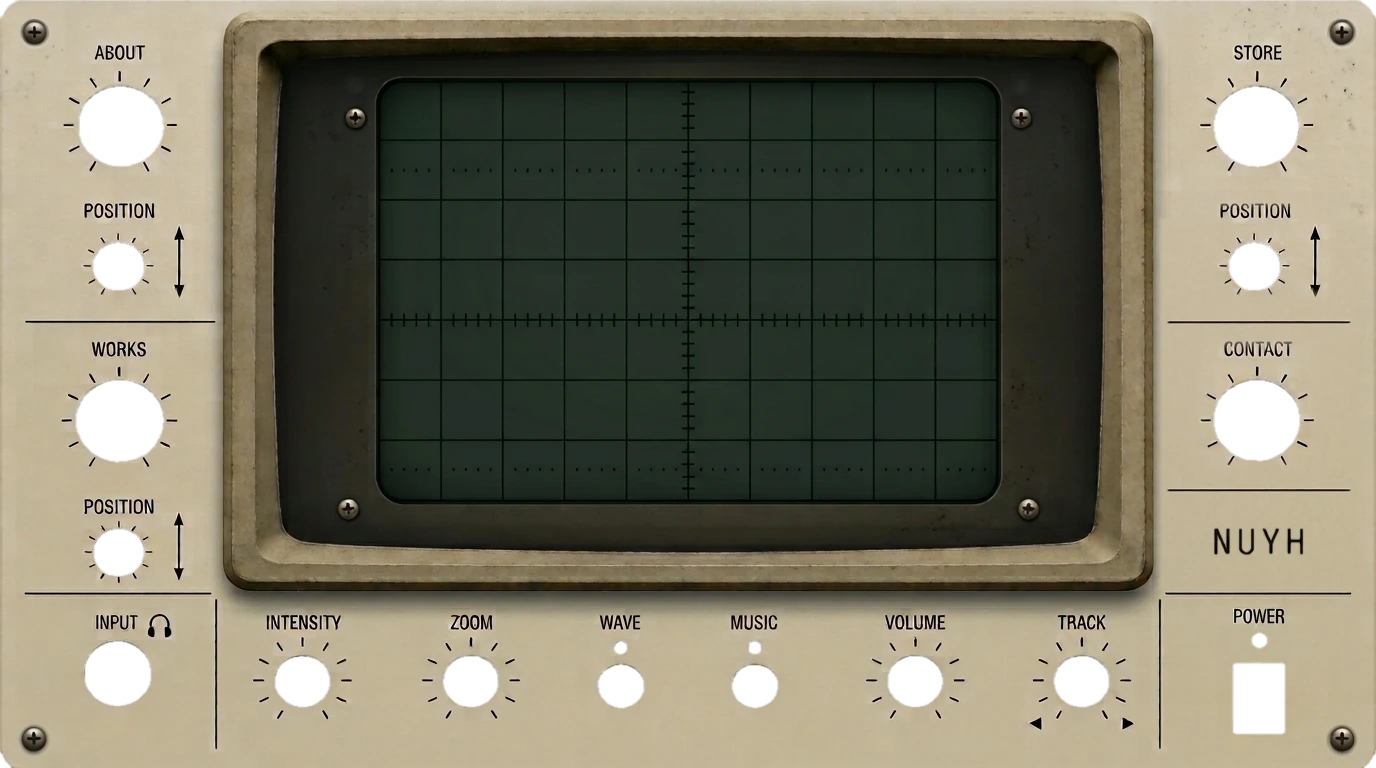
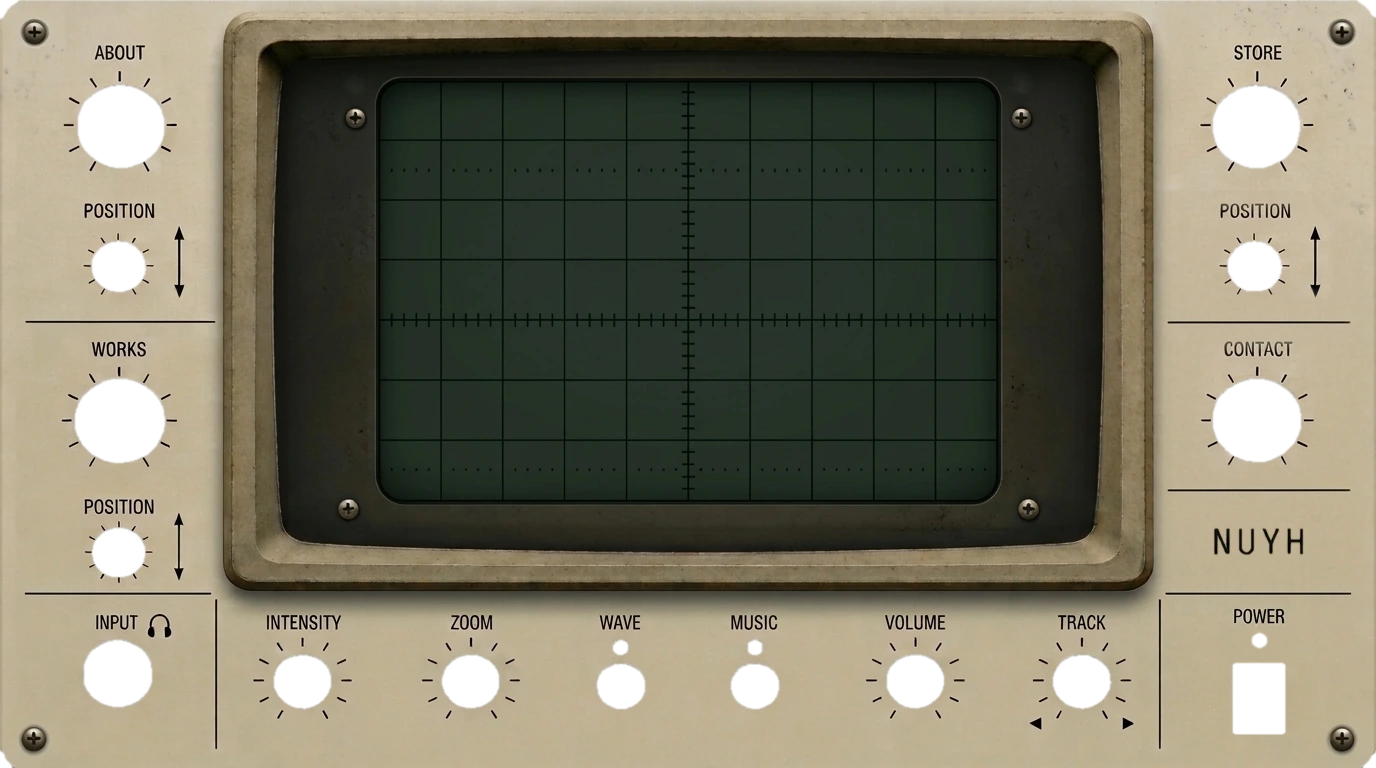
Add files via upload

diff --git a/index.html b/index.html
@@ -16,14 +16,19 @@ a{color:inherit;text-underline-offset:.2em}
 .w>img{position:relative;z-index:2;display:block;width:100%;height:100%;pointer-events:none}
 .w>:not(img){position:absolute}
 /* knobs */
-.k{z-index:3;border-radius:50%;cursor:grab;touch-action:none;outline-offset:3px;transition:transform .18s ease-out;box-shadow:0 0 0 .13cqw #8d7d4d,0 .3cqw .6cqw rgba(0,0,0,.55)}
-.k.d{transition:none;cursor:grabbing}
-.k img{width:100%;height:100%;display:block;pointer-events:none}
+.k{z-index:3;border-radius:50%;cursor:grab;touch-action:none;outline-offset:3px;box-shadow:0 .3cqw .7cqw rgba(0,0,0,.55)}
+.k.d{cursor:grabbing}
+.k img{position:absolute;inset:0;width:100%;height:100%;display:block;pointer-events:none}
+.k .r{transition:transform .18s ease-out}
+.k.d .r{transition:none}
 .k:focus-visible,.t:focus-visible,.p:focus-visible{outline:2px solid #7dff4a}
 /* toggles / power */
 .t,.p{z-index:3;padding:0;border:0;background:none;cursor:pointer}
 .t img,.p img{width:100%;height:100%;display:block;pointer-events:none;object-fit:contain;transition:transform .15s}
-.t:not(.on) img{transform:translateY(9%) scaleY(.9)}
+.t img{position:absolute;inset:0}
+.t .o{display:none}
+.t:not(.on) .u{display:none}
+.t:not(.on) .o{display:block}
 .p:not(.on) img{transform:perspective(160px) rotateX(14deg);filter:brightness(.8)}
 .w:not(.on) .p{animation:hint 2.2s ease-in-out infinite}
 @keyframes hint{50%{filter:drop-shadow(0 0 .8cqw rgba(125,255,74,.9))}}
@@ -43,13 +48,13 @@ a{color:inherit;text-underline-offset:.2em}
 .sel{position:absolute;left:50%;top:4%;transform:translateX(-50%);text-align:center;font-size:.95cqw;letter-spacing:.2em;opacity:.85}
 .sk{width:2.6cqw;height:2.6cqw;margin:.3cqw auto 0;border:.1cqw solid currentColor;border-radius:50%;position:relative;transition:transform .2s}
 .sk::after{content:"";position:absolute;left:50%;top:6%;width:.1cqw;height:32%;background:currentColor;transform:translateX(-50%)}
-#info{position:absolute;left:4%;right:4%;top:22%;height:44%;display:flex;flex-direction:column;justify-content:center;align-items:center;text-align:center;gap:.5cqw}
+#info{position:absolute;left:4%;right:4%;top:19%;height:50%;display:flex;flex-direction:column;justify-content:center;align-items:center;text-align:center;gap:.35cqw}
 #info>*{animation:ty .5s steps(20) both}
 @keyframes ty{from{clip-path:inset(0 100% 0 0);opacity:.2}to{clip-path:inset(0 0 0 0);opacity:1}}
 .ti{font-size:4.4cqw;font-weight:700;letter-spacing:.2em;padding-left:.2em}
 .su{font-size:1.25cqw;letter-spacing:.3em}
-.hd{font-size:1.5cqw;letter-spacing:.15em;margin-bottom:.6cqw}
-.ln{font-size:1.45cqw}
+.hd{font-size:1.5cqw;letter-spacing:.15em;margin-bottom:.4cqw}
+.ln{font-size:1.4cqw}
 .hz,.cl,#trk{position:absolute}
 .hz{left:0;right:0;top:70%;border-top:1px solid rgba(110,255,60,.35)}
 .cl{left:50%;top:70%;height:24%;border-left:1px dashed rgba(110,255,60,.35)}
@@ -66,20 +71,20 @@ footer{font-size:.8rem;opacity:.65;padding:.5rem 1rem;text-align:center}
 <body>
 <div class="w" id="w">
 <img src="assets/plate.webp" alt="" width="1376" height="768">
-<div class="k" data-k="about" role="slider" tabindex="0" aria-label="about" aria-valuemin="0" aria-valuemax="100" style="left:5.443%;top:10.430%;width:6.613%;height:11.849%"><img src="assets/knob.png" alt="" draggable="false"></div>
-<div class="k" data-k="store" role="slider" tabindex="0" aria-label="store" aria-valuemin="0" aria-valuemax="100" style="left:87.972%;top:10.456%;width:6.613%;height:11.849%"><img src="assets/knob.png" alt="" draggable="false"></div>
-<div class="k" data-k="aboutp" role="slider" tabindex="0" aria-label="aboutp" aria-valuemin="0" aria-valuemax="100" style="left:6.512%;top:30.911%;width:4.142%;height:7.422%"><img src="assets/knob.png" alt="" draggable="false"></div>
-<div class="k" data-k="storep" role="slider" tabindex="0" aria-label="storep" aria-valuemin="0" aria-valuemax="100" style="left:89.070%;top:30.911%;width:4.142%;height:7.422%"><img src="assets/knob.png" alt="" draggable="false"></div>
-<div class="k" data-k="works" role="slider" tabindex="0" aria-label="works" aria-valuemin="0" aria-valuemax="100" style="left:5.254%;top:48.581%;width:6.831%;height:12.240%"><img src="assets/knob.png" alt="" draggable="false"></div>
-<div class="k" data-k="contact" role="slider" tabindex="0" aria-label="contact" aria-valuemin="0" aria-valuemax="100" style="left:87.958%;top:48.646%;width:6.686%;height:11.979%"><img src="assets/knob.png" alt="" draggable="false"></div>
-<div class="k" data-k="worksp" role="slider" tabindex="0" aria-label="worksp" aria-valuemin="0" aria-valuemax="100" style="left:6.555%;top:68.229%;width:4.070%;height:7.292%"><img src="assets/knob.png" alt="" draggable="false"></div>
-<div class="k" data-k="int" role="slider" tabindex="0" aria-label="int" aria-valuemin="0" aria-valuemax="100" style="left:19.731%;top:84.674%;width:4.433%;height:7.943%"><img src="assets/knob.png" alt="" draggable="false"></div>
-<div class="k" data-k="zoom" role="slider" tabindex="0" aria-label="zoom" aria-valuemin="0" aria-valuemax="100" style="left:31.969%;top:84.661%;width:4.433%;height:7.943%"><img src="assets/knob.png" alt="" draggable="false"></div>
-<div class="k" data-k="vol" role="slider" tabindex="0" aria-label="vol" aria-valuemin="0" aria-valuemax="100" style="left:64.259%;top:84.661%;width:4.433%;height:7.943%"><img src="assets/knob.png" alt="" draggable="false"></div>
-<div class="k" data-k="track" role="slider" tabindex="0" aria-label="track" aria-valuemin="0" aria-valuemax="100" style="left:76.359%;top:84.674%;width:4.433%;height:7.943%"><img src="assets/knob.png" alt="" draggable="false"></div>
-<button class="t" id="t-wave" aria-label="wave" aria-pressed="false" style="left:43.067%;top:84.961%;width:4.070%;height:8.594%"><img src="assets/toggle.png" alt="" draggable="false"></button>
+<div class="k" data-k="about" role="slider" tabindex="0" aria-label="about" aria-valuemin="0" aria-valuemax="100" style="left:5.443%;top:10.430%;width:6.613%;height:11.849%"><img class="r" src="assets/knob.svg" alt="" draggable="false"><img src="assets/knob-gloss.svg" alt="" draggable="false"></div>
+<div class="k" data-k="store" role="slider" tabindex="0" aria-label="store" aria-valuemin="0" aria-valuemax="100" style="left:87.972%;top:10.456%;width:6.613%;height:11.849%"><img class="r" src="assets/knob.svg" alt="" draggable="false"><img src="assets/knob-gloss.svg" alt="" draggable="false"></div>
+<div class="k" data-k="aboutp" role="slider" tabindex="0" aria-label="aboutp" aria-valuemin="0" aria-valuemax="100" style="left:6.512%;top:30.911%;width:4.142%;height:7.422%"><img class="r" src="assets/knob.svg" alt="" draggable="false"><img src="assets/knob-gloss.svg" alt="" draggable="false"></div>
+<div class="k" data-k="storep" role="slider" tabindex="0" aria-label="storep" aria-valuemin="0" aria-valuemax="100" style="left:89.070%;top:30.911%;width:4.142%;height:7.422%"><img class="r" src="assets/knob.svg" alt="" draggable="false"><img src="assets/knob-gloss.svg" alt="" draggable="false"></div>
+<div class="k" data-k="works" role="slider" tabindex="0" aria-label="works" aria-valuemin="0" aria-valuemax="100" style="left:5.254%;top:48.581%;width:6.831%;height:12.240%"><img class="r" src="assets/knob.svg" alt="" draggable="false"><img src="assets/knob-gloss.svg" alt="" draggable="false"></div>
+<div class="k" data-k="contact" role="slider" tabindex="0" aria-label="contact" aria-valuemin="0" aria-valuemax="100" style="left:87.958%;top:48.646%;width:6.686%;height:11.979%"><img class="r" src="assets/knob.svg" alt="" draggable="false"><img src="assets/knob-gloss.svg" alt="" draggable="false"></div>
+<div class="k" data-k="worksp" role="slider" tabindex="0" aria-label="worksp" aria-valuemin="0" aria-valuemax="100" style="left:6.555%;top:68.229%;width:4.070%;height:7.292%"><img class="r" src="assets/knob.svg" alt="" draggable="false"><img src="assets/knob-gloss.svg" alt="" draggable="false"></div>
+<div class="k" data-k="int" role="slider" tabindex="0" aria-label="int" aria-valuemin="0" aria-valuemax="100" style="left:19.731%;top:84.674%;width:4.433%;height:7.943%"><img class="r" src="assets/knob.svg" alt="" draggable="false"><img src="assets/knob-gloss.svg" alt="" draggable="false"></div>
+<div class="k" data-k="zoom" role="slider" tabindex="0" aria-label="zoom" aria-valuemin="0" aria-valuemax="100" style="left:31.969%;top:84.661%;width:4.433%;height:7.943%"><img class="r" src="assets/knob.svg" alt="" draggable="false"><img src="assets/knob-gloss.svg" alt="" draggable="false"></div>
+<div class="k" data-k="vol" role="slider" tabindex="0" aria-label="vol" aria-valuemin="0" aria-valuemax="100" style="left:64.259%;top:84.661%;width:4.433%;height:7.943%"><img class="r" src="assets/knob.svg" alt="" draggable="false"><img src="assets/knob-gloss.svg" alt="" draggable="false"></div>
+<div class="k" data-k="track" role="slider" tabindex="0" aria-label="track" aria-valuemin="0" aria-valuemax="100" style="left:76.359%;top:84.674%;width:4.433%;height:7.943%"><img class="r" src="assets/knob.svg" alt="" draggable="false"><img src="assets/knob-gloss.svg" alt="" draggable="false"></div>
+<button class="t" id="t-wave" aria-label="wave" aria-pressed="false" style="left:42.558%;top:84.674%;width:5.087%;height:11.621%"><img class="u" src="assets/toggle-on.png" alt="" draggable="false"><img class="o" src="assets/toggle-off.png" alt="" draggable="false"></button>
 <i class="led r" id="l-wave" style="left:44.528%;top:83.281%;width:1.090%;height:1.953%"></i>
-<button class="t" id="t-music" aria-label="music" aria-pressed="false" style="left:52.805%;top:84.948%;width:4.070%;height:8.594%"><img src="assets/toggle.png" alt="" draggable="false"></button>
+<button class="t" id="t-music" aria-label="music" aria-pressed="false" style="left:52.297%;top:84.661%;width:5.087%;height:11.621%"><img class="u" src="assets/toggle-on.png" alt="" draggable="false"><img class="o" src="assets/toggle-off.png" alt="" draggable="false"></button>
 <i class="led r" id="l-music" style="left:54.281%;top:83.281%;width:1.090%;height:1.953%"></i>
 <button class="p" id="power" aria-label="power" aria-pressed="false" style="left:89.426%;top:85.417%;width:4.070%;height:10.938%"><img src="assets/rocker.png" alt="" draggable="false"></button>
 <i class="led g" id="l-power" style="left:90.952%;top:82.357%;width:1.090%;height:1.953%"></i>
@@ -99,26 +104,28 @@ footer{font-size:.8rem;opacity:.65;padding:.5rem 1rem;text-align:center}
 <p>An independent studio making games and music. / 게임과 음악을 만드는 독립 스튜디오입니다.</p>
 <p><strong>GOTBOY</strong> — a retro pixel-art runner and boss-fight game inspired by Korean folklore. <a href="https://gotboy.nuyhcreative.com">gotboy.nuyhcreative.com</a></p>
 <p><a href="mailto:contact@nuyhcreative.com">contact@nuyhcreative.com</a></p>
+<p><a href="https://gotboy.nuyhcreative.com/privacy_en.html">Privacy Policy</a> / <a href="https://gotboy.nuyhcreative.com/privacy_ko.html" lang="ko">개인정보처리방침</a><br><a href="https://gotboy.nuyhcreative.com/terms_en.html">Terms of Service</a> / <a href="https://gotboy.nuyhcreative.com/terms_ko.html" lang="ko">이용약관</a></p>
 </section>
-<footer>© 2026 NUYH Creative · <a href="https://gotboy.nuyhcreative.com/privacy_en.html">Privacy</a> / <a href="https://gotboy.nuyhcreative.com/privacy_ko.html" lang="ko">개인정보처리방침</a> · <a href="https://gotboy.nuyhcreative.com/terms_en.html">Terms</a> / <a href="https://gotboy.nuyhcreative.com/terms_ko.html" lang="ko">이용약관</a></footer>
+<footer>© 2026 NUYH Creative</footer>
 <script>
 (()=>{
 "use strict";
-/* ===== EDIT HERE: screen contents. [text, url] makes a link ===== */
+/* ===== EDIT HERE: screen contents. [text, url] = link, [[t,u],[t,u]] = several links on one line ===== */
 const PAGES={
  about:[{h:"ABOUT / STUDIO",l:["NUYH Creative is an independent studio","making games and music.","게임과 음악을 만드는 독립 스튜디오입니다."]},
         {h:"ABOUT / MUSIC",l:["Composition and sound design."]},
         {h:"ABOUT / VISUAL",l:["Pixel art and game visuals."]}],
- works:[{h:"WORKS / ALBUM",l:["COMING SOON"]},
-        {h:"WORKS / GAME",l:["GOTBOY","Retro pixel-art runner & boss fight","inspired by Korean folklore.",["gotboy.nuyhcreative.com","https://gotboy.nuyhcreative.com"]]},
-        {h:"WORKS / FILM",l:["COMING SOON"]}],
+ works:[{h:"WORKS / MUSIC",l:["COMING SOON"]},
+        {h:"WORKS / GAME",l:["GOTBOY","Retro pixel-art runner & boss fight game",["gotboy.nuyhcreative.com","https://gotboy.nuyhcreative.com"],
+          [["Privacy Policy","https://gotboy.nuyhcreative.com/privacy_en.html"],["개인정보처리방침","https://gotboy.nuyhcreative.com/privacy_ko.html"]],
+          [["Terms of Service","https://gotboy.nuyhcreative.com/terms_en.html"],["이용약관","https://gotboy.nuyhcreative.com/terms_ko.html"]]]}],
  store:[{h:"STORE / ALL",l:["COMING SOON"]},{h:"STORE / MUSIC",l:["COMING SOON"]},{h:"STORE / GAME",l:["COMING SOON"]}],
  contact:[{h:"CONTACT",l:[["contact@nuyhcreative.com","mailto:contact@nuyhcreative.com"],"INSTAGRAM  —","BANDCAMP  —"]}]
 };
 const TRACKS=["assets/track01.mp3","assets/track02.mp3","assets/track03.mp3"]; // put your audio files here
 /* ================================================================ */
 const $=s=>document.querySelector(s), clamp=(v,a=0,b=1)=>Math.min(b,Math.max(a,v));
-const S={on:0,wave:1,music:0,page:null,sub:{about:0,works:0,store:0},tr:0,bad:0}, V={int:.7,zoom:.5,vol:.6};
+const S={on:0,wave:1,music:0,page:null,sub:{about:0,works:0,store:0},tr:0,bad:0}, V={int:.5,zoom:.5,vol:.5};
 const SEC=["about","works","store","contact"], POS={aboutp:"about",worksp:"works",storep:"store"};
 const wrap=$("#w"),info=$("#info"),trk=$("#trk"),sk=$("#sk"),cv=$("#cv"),ctx=cv.getContext("2d");
 const aud=new Audio(); aud.loop=true; aud.preload="none"; aud.volume=V.vol;
@@ -136,7 +143,7 @@ function show(){
   }
   rows.forEach(([c,x],i)=>{
     const d=document.createElement("div"); d.className=c; d.style.animationDelay=(i*.14)+"s";
-    if(Array.isArray(x)){ const a=document.createElement("a"); a.href=x[1]; a.textContent=x[0]; a.rel="noopener"; if(x[1].startsWith("http")) a.target="_blank"; d.append(a); }
+    if(Array.isArray(x)){ (Array.isArray(x[0])?x:[x]).forEach((l,j)=>{ if(j) d.append(" · "); const a=document.createElement("a"); a.href=l[1]; a.textContent=l[0]; a.rel="noopener"; if(l[1].startsWith("http")) a.target="_blank"; d.append(a); }); }
     else d.textContent=x;
     info.append(d);
   });
@@ -166,41 +173,49 @@ function setMusic(v){
   leds(); label();
 }
 
-/* ---- knobs ---- */
-const K={};
-function change(id,v){
+/* ---- knobs (angle in degrees, 0 = north) ---- */
+const K={}, ST={aboutp:[0,45,90],worksp:[0,45],storep:[0,45,90],track:[0,45,90]};
+function change(id,a){
+  const v=(a+135)/270, st=ST[id];
   if(id==="int"){V.int=v; wrap.style.setProperty("--int",v); return;}
   if(id==="zoom"){V.zoom=v; return;}
   if(id==="vol"){V.vol=v; aud.volume=v; return;}
-  if(id==="track"){S.tr=Math.round(v*2); loadTrack(); return;}
-  if(id in POS){S.sub[POS[id]]=Math.round(v*2); show(); return;}
-  if(v>.5){ S.page=id; SEC.forEach(o=>o!==id&&K[o].set(0,1)); } else if(S.page===id) S.page=null;
+  const i=st?st.indexOf(a):0;
+  if(id==="track"){S.tr=i; loadTrack(); return;}
+  if(id in POS){S.sub[POS[id]]=i; show(); return;}
+  if(a>20){ S.page=id; SEC.forEach(o=>o!==id&&K[o].set(0,1)); } else if(S.page===id) S.page=null;
   show();
 }
 document.querySelectorAll(".k").forEach(el=>{
-  const id=el.dataset.k, steps=(id in POS||id==="track")?3:0, sec=SEC.includes(id);
-  const k=K[id]={v:0,set(v,quiet){
-    v=clamp(v); if(steps) v=Math.round(v*(steps-1))/(steps-1);
-    this.v=v; el.style.transform="rotate("+(-135+270*v)+"deg)"; el.setAttribute("aria-valuenow",Math.round(v*100));
-    if(!quiet) change(id,v);
-  }};
-  let st=null;
-  el.addEventListener("pointerdown",e=>{ if(!S.on) return; el.setPointerCapture(e.pointerId); el.classList.add("d"); st={x:e.clientX,y:e.clientY,m:0}; });
+  const id=el.dataset.k, st=ST[id], sec=SEC.includes(id), rot=el.querySelector(".r");
+  const k=K[id]={a:0,
+    set(a,quiet){
+      a=clamp(a,-135,135);
+      if(st) a=st.reduce((b,s)=>Math.abs(s-a)<Math.abs(b-a)?s:b);
+      this.a=a; rot.style.transform="rotate("+a+"deg)"; el.setAttribute("aria-valuenow",Math.round((a+135)/2.7));
+      if(!quiet) change(id,a);
+    },
+    step(d,wrapAround){
+      if(!st) return this.set(this.a+d*12);
+      let i=st.indexOf(this.a)+d; i=wrapAround?(i+st.length)%st.length:clamp(i,0,st.length-1); this.set(st[i]);
+    }};
+  let p=null;
+  el.addEventListener("pointerdown",e=>{ if(!S.on) return; el.setPointerCapture(e.pointerId); el.classList.add("d"); p={x:e.clientX,y:e.clientY,m:0}; });
   el.addEventListener("pointermove",e=>{
-    if(!st) return;
-    if(Math.hypot(e.clientX-st.x,e.clientY-st.y)>5) st.m=1;
-    if(!st.m) return;
+    if(!p) return;
+    if(Math.hypot(e.clientX-p.x,e.clientY-p.y)>5) p.m=1;
+    if(!p.m) return;
     const r=el.getBoundingClientRect(), a=Math.atan2(e.clientX-(r.left+r.width/2),-(e.clientY-(r.top+r.height/2)))*180/Math.PI;
-    if(Math.abs(a)<=155) k.set((clamp(a,-135,135)+135)/270);
+    if(Math.abs(a)<=155) k.set(a);
   });
-  const end=()=>{ if(!st) return; if(!st.m&&sec) k.set(k.v>.5?0:.67); el.classList.remove("d"); st=null; };
+  const end=()=>{ if(!p) return; if(!p.m){ if(sec) k.set(k.a>20?0:45); else if(st) k.step(1,true); } el.classList.remove("d"); p=null; };
   el.addEventListener("pointerup",end); el.addEventListener("pointercancel",end);
-  el.addEventListener("wheel",e=>{ if(!S.on) return; e.preventDefault(); k.set(k.v+(e.deltaY<0?1:-1)*(steps?1/(steps-1):.05)); },{passive:false});
+  el.addEventListener("wheel",e=>{ if(!S.on) return; e.preventDefault(); k.step(e.deltaY<0?1:-1); },{passive:false});
   el.addEventListener("keydown",e=>{
     if(!S.on) return; const d={ArrowUp:1,ArrowRight:1,ArrowDown:-1,ArrowLeft:-1}[e.key]; if(!d) return;
-    e.preventDefault(); k.set(k.v+d*(steps?1/(steps-1):.08));
+    e.preventDefault(); k.step(d);
   });
-  k.set({int:V.int,zoom:V.zoom,vol:V.vol}[id]||0,1);
+  k.set(0,1);
 });
 wrap.style.setProperty("--int",V.int);
 
